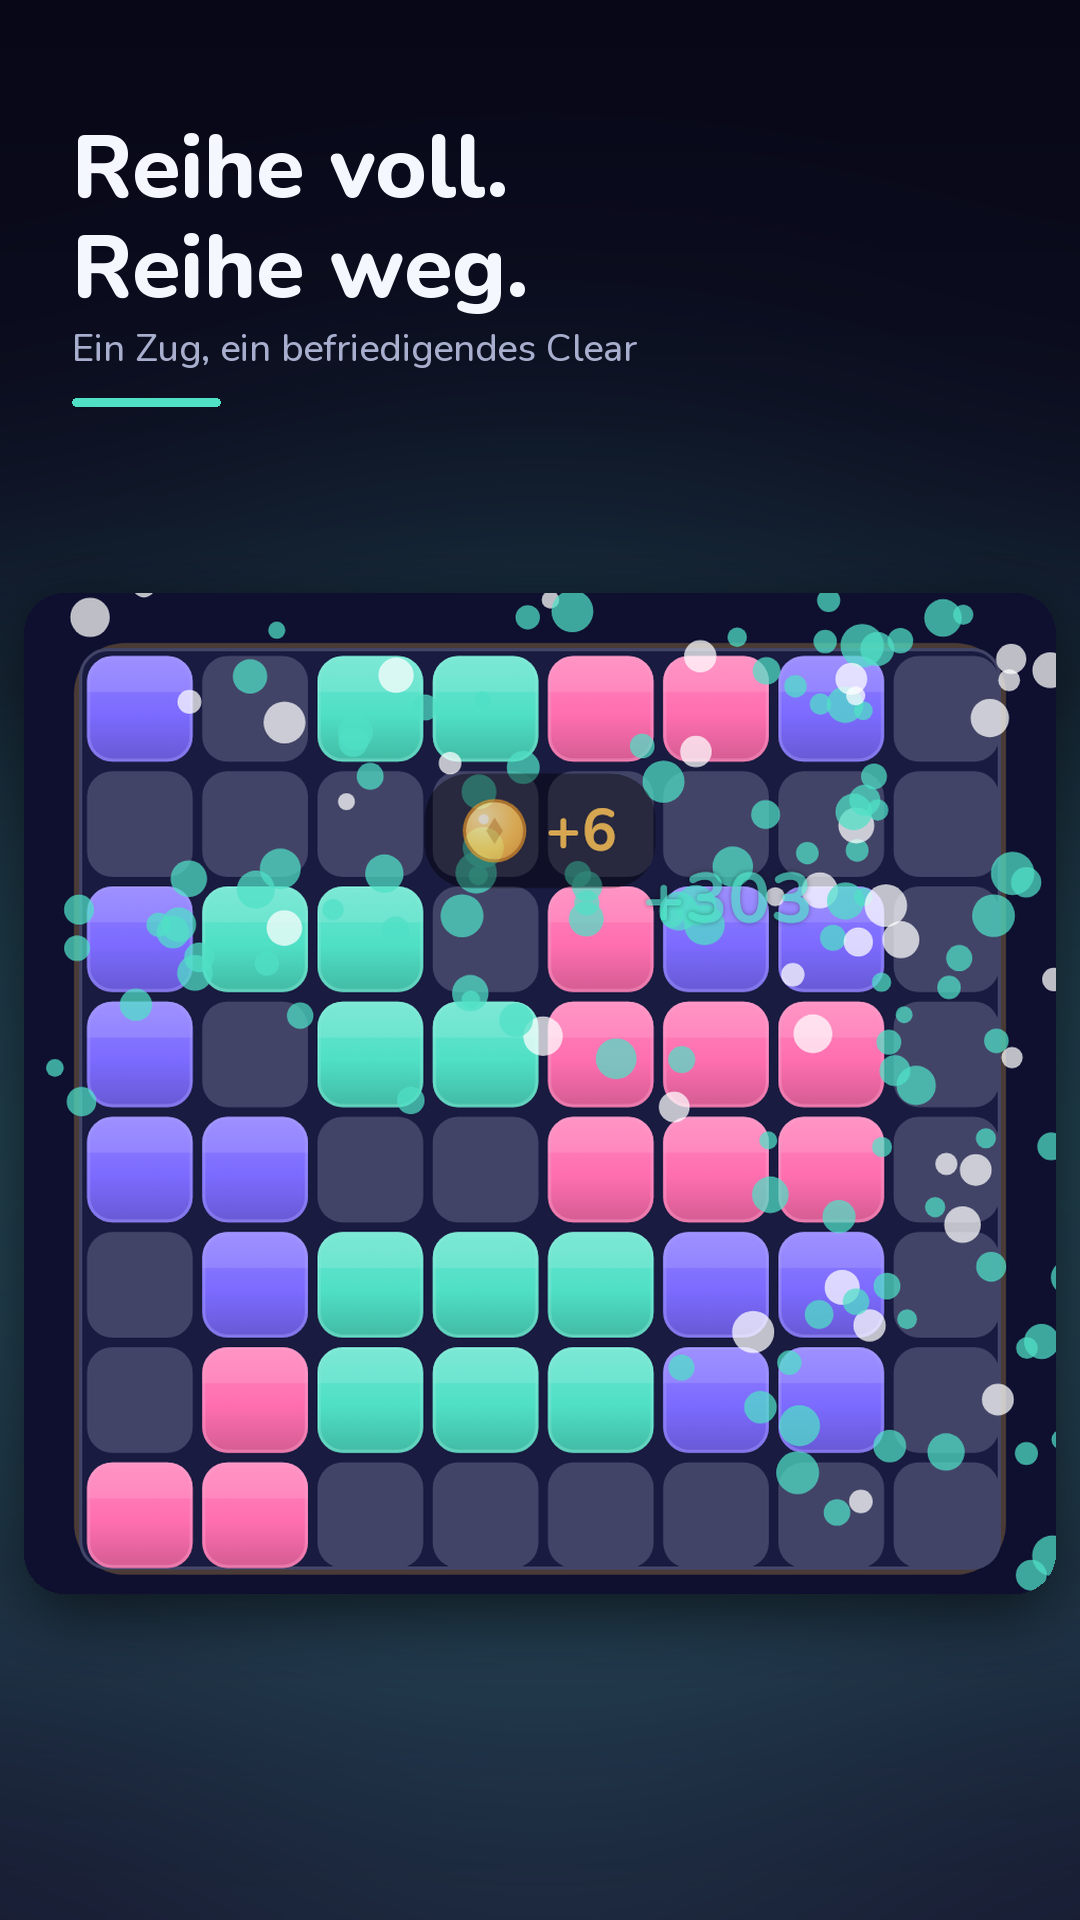
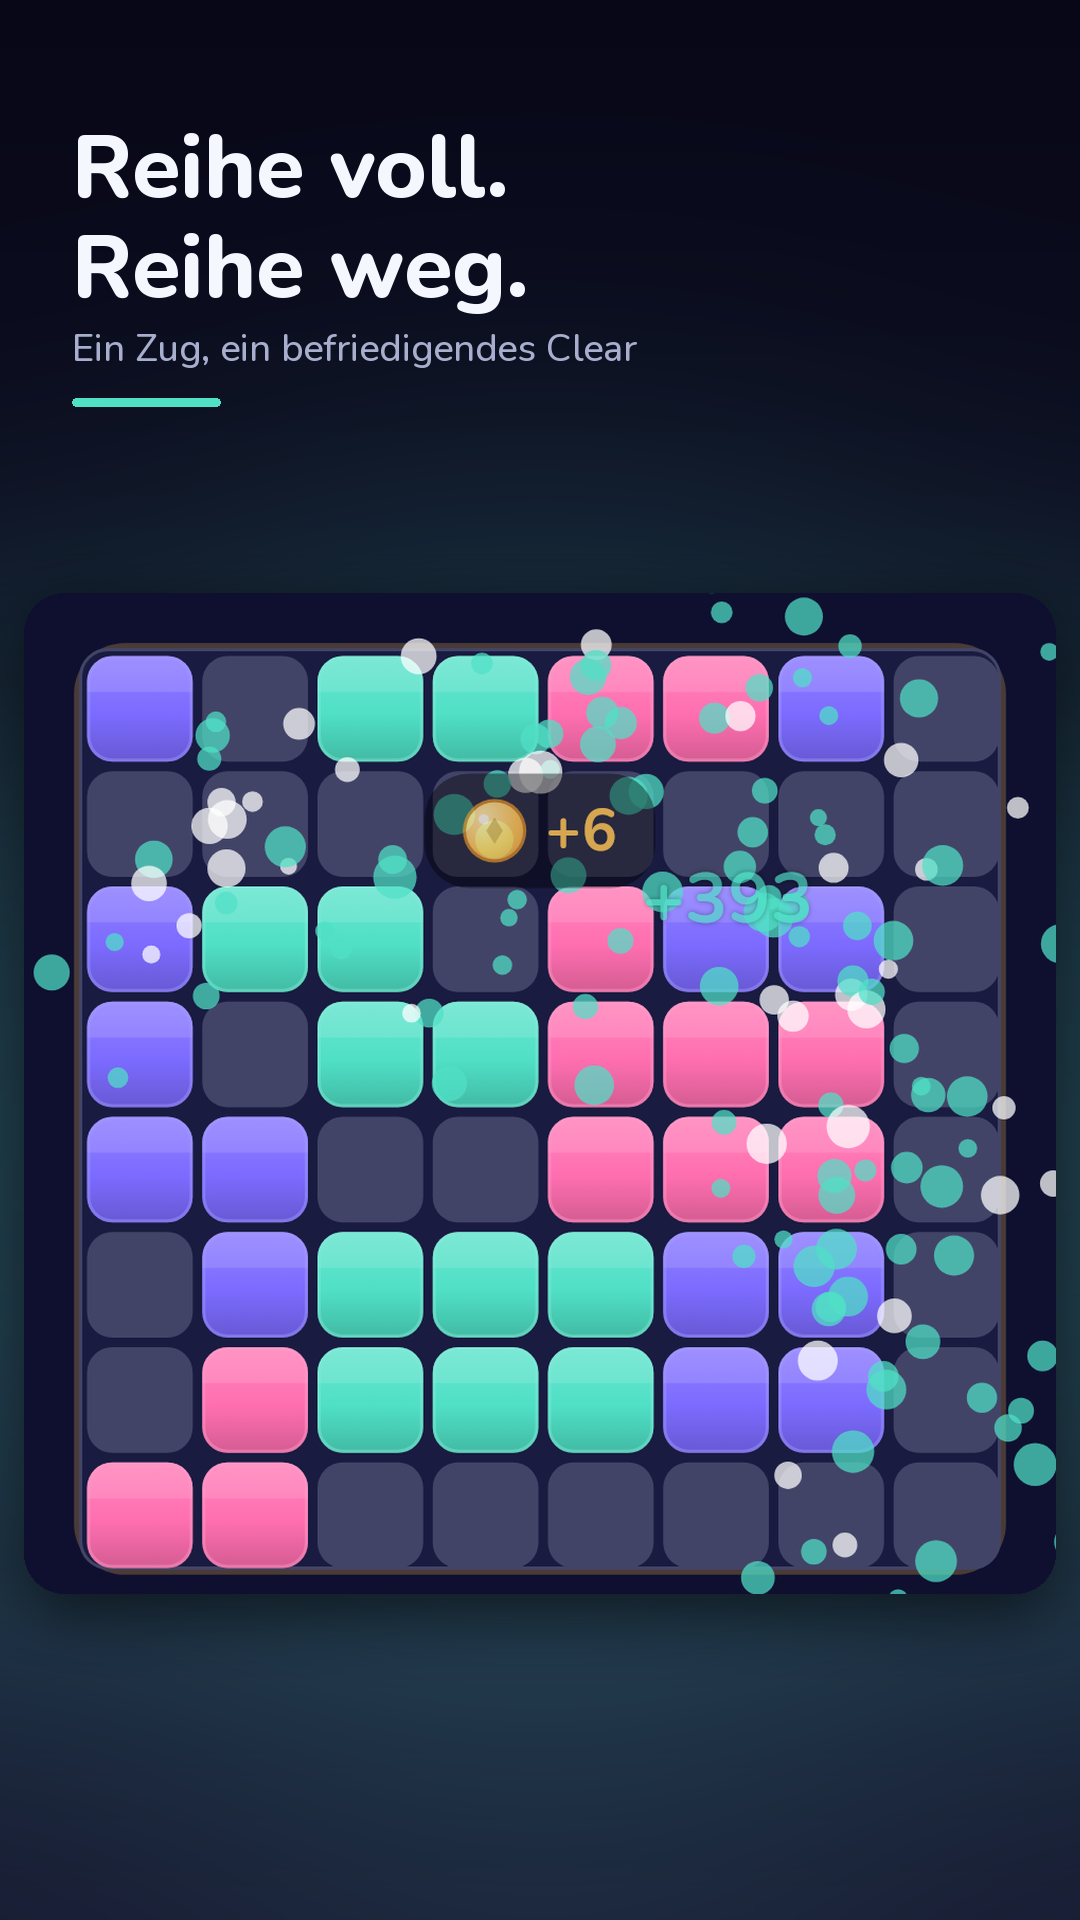
Refresh the store screenshots and cut 1.2.0
The screenshots were captured on 1 September; the game HUD changed on the
3rd — a speed readout, a reworked booster bar, a moved hint. Store images that
no longer show the app are a metadata-accuracy problem, which is the finding
this audit already had to close once, so they are regenerated from the real
screens rather than left to drift.

Version goes to 1.2.0+8. The release notes are written in both languages and
kept under Play's 500-character field limit, which a test now enforces along
with their existence for whatever version pubspec names — a note that is too
long is otherwise discovered while standing in the console at release time,
and a missing one ships the previous version's text.

Character count, not bytes: German umlauts are two bytes each and a byte check
would reject text the store accepts.

Claude-Session: https://claude.ai/code/session_016qGv6YYkv52DjobxNpUwTo

diff --git a/test/release_notes_test.dart b/test/release_notes_test.dart
@@ -1,0 +1,47 @@
+// Google Play caps the "What's new" text at 500 characters per language. The
+// notes are written here and pasted there, so a note that is too long is only
+// discovered while standing in the console at release time — exactly when
+// nobody wants to be rewriting copy.
+import 'dart:io';
+
+import 'package:flutter_test/flutter_test.dart';
+
+/// Play's limit for the release-notes field.
+const int kPlayReleaseNotesLimit = 500;
+
+void main() {
+  final dir = Directory('docs/release-notes');
+  final notes = dir.listSync().whereType<File>().where(
+    (f) => f.path.endsWith('.txt'),
+  );
+
+  test('release notes exist for the version in pubspec', () {
+    final version = RegExp(r'^version:\s*([0-9.]+)\+', multiLine: true)
+        .firstMatch(File('pubspec.yaml').readAsStringSync())!
+        .group(1)!;
+    for (final locale in ['en', 'de']) {
+      expect(
+        File('docs/release-notes/$version-$locale.txt').existsSync(),
+        isTrue,
+        reason:
+            'pubspec is at $version but docs/release-notes/$version-$locale.txt '
+            'is missing — the store entry would go out with the previous '
+            "version's notes",
+      );
+    }
+  });
+
+  for (final file in notes) {
+    test('${file.uri.pathSegments.last} fits the store field', () {
+      // Characters, not bytes: German umlauts are two bytes each and would
+      // make a byte count reject text the store accepts.
+      final length = file.readAsStringSync().length;
+      expect(
+        length,
+        lessThanOrEqualTo(kPlayReleaseNotesLimit),
+        reason: '$length characters, limit is $kPlayReleaseNotesLimit',
+      );
+      expect(length, greaterThan(0));
+    });
+  }
+}
